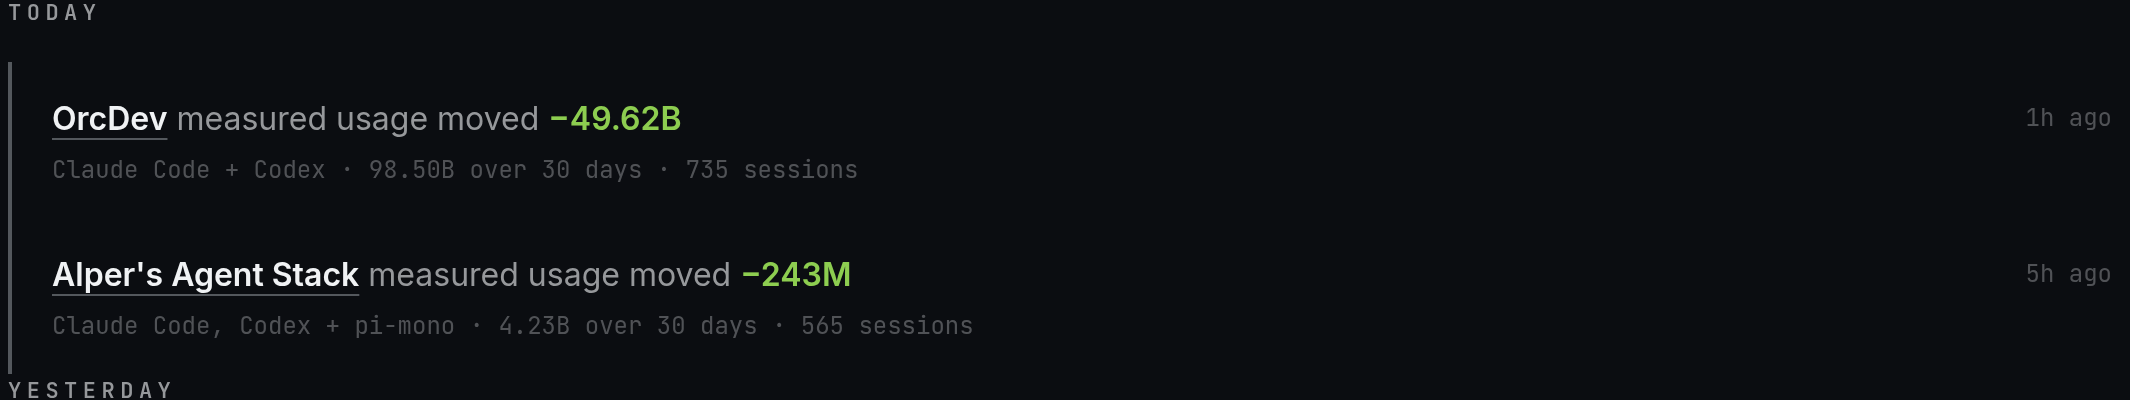
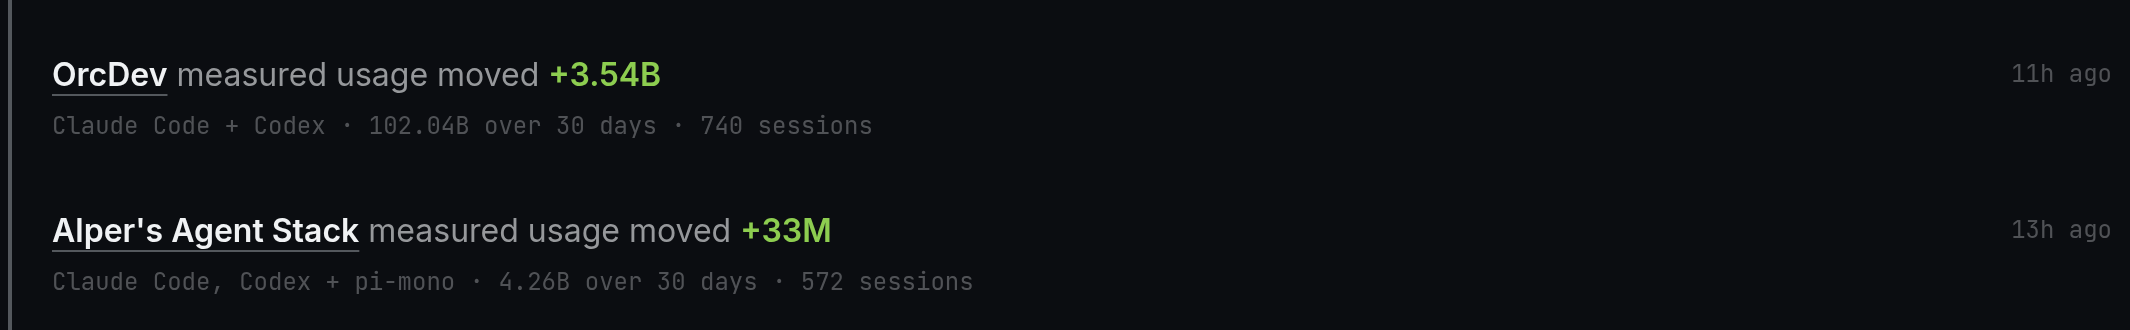
Add animated token-counter hero and refresh screenshots (alp82/aistack#134)
Records the start page's live 24h token counter (number, cycling reel,
7-day chart) as an 8.8s looping GIF and puts it as the clickable hero,
like the waitlist-launch email. Refreshes the usage, leaderboard,
activity and share captures to 2026-08-17 and updates the terminal
numbers to match (572 sessions, 4.26B tokens, $4,907).

Claude-Session: https://claude.ai/code/session_017TuPYyH6JxiDRSnJa6sCvK

diff --git a/src/emails/SyncBroadcastEmail.tsx b/src/emails/SyncBroadcastEmail.tsx
@@ -24,11 +24,12 @@ import {
 
 const BASE_URL = "https://aistack.to";
 
-// The sync-broadcast design was locked in wayfinder ticket #133: terminal
-// hero with the owner's real reading, one CTA to /sync, then one row per
-// gain, each backed by a screenshot captured from the live site
-// (2026-08-15, stored in /public/email/). Recapture before sending if the
-// numbers have drifted - the copy claims they are real.
+// The sync-broadcast design was locked in wayfinder ticket #133: an
+// animated hero (the start page's live token counter, recorded as a GIF),
+// the terminal mock with the owner's real reading, one CTA to /sync, then
+// one row per gain, each backed by a screenshot captured from the live
+// site (2026-08-17, stored in /public/email/). Recapture before sending
+// if the numbers have drifted - the copy claims they are real.
 
 const termLine: React.CSSProperties = {
 	fontFamily: fonts.mono,
@@ -134,6 +135,22 @@ export function SyncBroadcastEmail(props: {
 						</Row>
 					</Section>
 
+					{/* Hero - the start page's token counter, recorded live. Clickable
+					    like the waitlist-launch hero. */}
+					<Link href={`${ctaUrl}/sync`} style={{ display: "block" }}>
+						<Img
+							src={`${BASE_URL}/email/sync-hero.gif`}
+							alt="106 billion tokens measured in the last 24 hours on AI Stack"
+							width={560}
+							height={256}
+							style={{
+								width: "100%",
+								height: "auto",
+								display: "block",
+							}}
+						/>
+					</Link>
+
 					{/* Main Content */}
 					<Section style={styles.content}>
 						<Text style={styles.sectionLabel}>{"// aistack sync"}</Text>
@@ -160,9 +177,9 @@ export function SyncBroadcastEmail(props: {
 							<Text style={termLine}>
 								searched claude code, codex, opencode, pi-mono
 							</Text>
-							<Text style={termLine}>sessions 565 · 30 days</Text>
-							<Text style={termLine}>tokens 4.23B</Text>
-							<Text style={termLine}>cost $4,827 at API prices</Text>
+							<Text style={termLine}>sessions 572 · 30 days</Text>
+							<Text style={termLine}>tokens 4.26B</Text>
+							<Text style={termLine}>cost $4,907 at API prices</Text>
 						</Section>
 						<Text style={{ ...styles.small, margin: "0 0 32px" }}>
 							These are real numbers from my own machine. The CLI shows your
